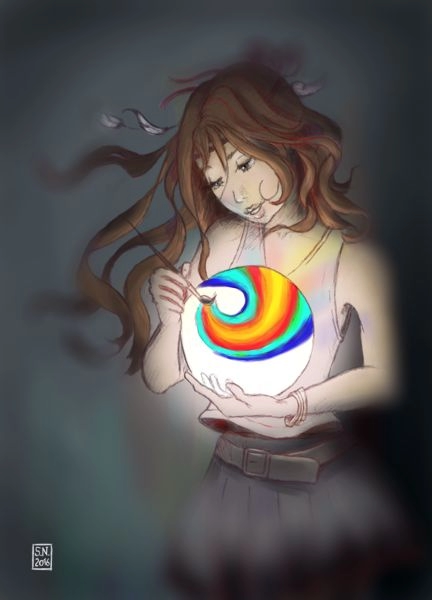
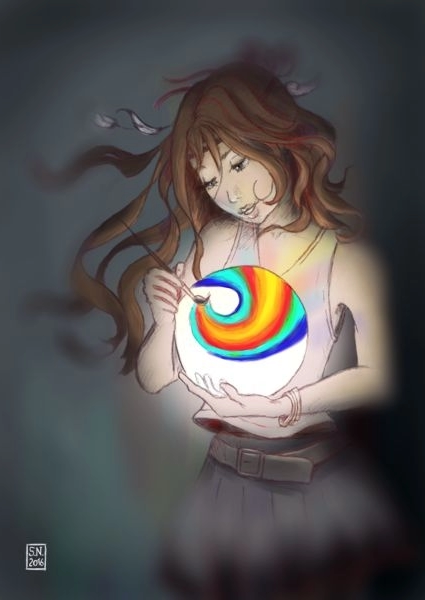
change image, add flying bee

diff --git a/src/Illustration.tsx b/src/Illustration.tsx
@@ -1,8 +1,9 @@
 import React from "react";
 import illuBilligfleisch from "../src/assets/images/Billigfleisch_400x600.webp";
 import illuDreams from "../src/assets/images/Dreams_400x600.webp";
-import illuHochhaus from "../src/assets/images/Hochhaus_400x600.webp";
+import illuArtenvielfalt from "../src/assets/images/Artenvielfalt.webp";
 import illuKatzenHunde from "../src/assets/images/KatzenHunde_400x600.webp";
+import illuBiene from "../src/assets/images/Biene.webp";
 
 const Illustration = () => {
     return (
@@ -30,18 +31,25 @@ const Illustration = () => {
                 </p>
             </section>
             <div className="md:col-start-3 md:col-span-2 h-96 md:h-72 lg:h-80 xl:h-[30rem] 2xl:h-[38rem]">
-                <p className="text-xs text-center text-gray-400 w-full tracking-widest">Swipe down / Website under contruction</p>
+                <div className="flex justify-center">
+                    <img
+                        src={illuBiene}
+                        alt="Illustration Biene in Wasserfarben"
+                        loading="lazy"
+                        className="animate-flying"
+                    />
+                </div>
             </div>
             <section className="grid grid-cols-1 sm:grid-cols-2 md:grid-cols-3 lg:grid-cols-4 col-start-1 md:col-span-4 gap-4 p-4 bg-stone-700">
                 <h3 className="text-2xl col-span-1 sm:col-span-2 md:col-span-3 lg:col-span-4 mb-2">Highlights digitale Illustrationen</h3>
                 <figure>
                     <img
-                        src={illuHochhaus}
+                        src={illuArtenvielfalt}
                         alt="Illustration Armut in USA"
                         loading="lazy"
                         className=""
                     />
-                    <figcaption className="mt-2 text-xs">Armut in USA (für Bildagentur iStock)</figcaption>
+                    <figcaption className="mt-2 text-xs">Artenvielfalt (Coverillustration eines Magazins)</figcaption>
                 </figure>
                 <figure>
                     <img

diff --git a/src/Navigation.tsx b/src/Navigation.tsx
@@ -4,9 +4,9 @@ import { Link } from "react-router-dom";
 const Navigation = () => {
     return (
         <nav className="fixed flex flex-col top-4 lg:top-8 text-white tracking-widest uppercase z-20">
-            <Link to="/" className="bg-teal-500 mb-2 px-4 py-2 rounded-ee-xl hover:bg-terracotta transition-colors duration-200">Illustration</Link>
-            <Link to="/kinderbuecher" className="bg-teal-500 mb-2 px-4 py-2 rounded-ee-xl hover:bg-terracotta transition-colors duration-200">Kinderbücher</Link>
-            <Link to="/ueber-mich"className="bg-teal-500 mb-2 px-4 py-2 rounded-ee-xl hover:bg-terracotta transition-colors duration-200">Über mich</Link>
+            <Link to="/" className="bg-teal-500 mb-2 px-4 py-2 rounded-ee-xl hover:bg-terracotta transition-colors duration-200 shadow-default">Illustration</Link>
+            <Link to="/kinderbuecher" className="bg-teal-500 mb-2 px-4 py-2 rounded-ee-xl hover:bg-terracotta transition-colors duration-200 shadow-default">Kinderbücher</Link>
+            <Link to="/ueber-mich"className="bg-teal-500 mb-2 px-4 py-2 rounded-ee-xl hover:bg-terracotta transition-colors duration-200 shadow-default">Über mich</Link>
         </nav>
     )
 }

diff --git a/vite.config.js b/vite.config.js
@@ -1,15 +1,14 @@
 import { defineConfig } from "vite";
 import react from "@vitejs/plugin-react";
 import svgr from "vite-plugin-svgr";
-import path from "path";
+import path from "path"; // @types/node muss dafür noch installiert werden
 
 // https://vitejs.dev/config/
 export default defineConfig({
     plugins: [react(), svgr()],
     resolve: {
         alias: {
-            // damit HG-Bilder beim build mit eingebunden werden
-            "~@": path.resolve(__dirname, "/src"),
+            "~@": path.resolve(__dirname, "/src"), // damit HG-Bilder beim build mit eingebunden werden
         },
     },
 });

diff --git a/src/App.css b/src/App.css
@@ -59,3 +59,19 @@ body {
 [data-testid="carousel"] > div {
   border-radius: 0;
 }
+
+/* .flying {
+  animation: flying 2.5s linear infinite;
+} */
+
+/* @keyframes flying {
+  0% {
+    transform: translateY(0px);
+  }
+  50% {
+    transform: translateY(15px);
+  }
+  100% {
+    transform: translateY(0px);
+  }
+} */

diff --git a/types.d.ts b/types.d.ts
@@ -1,5 +1,3 @@
 declare module "*.jpg";
-declare module "*.png";
 declare module "*.svg";
 declare module "*.webp";
-declare module "flowbite/plugin";
